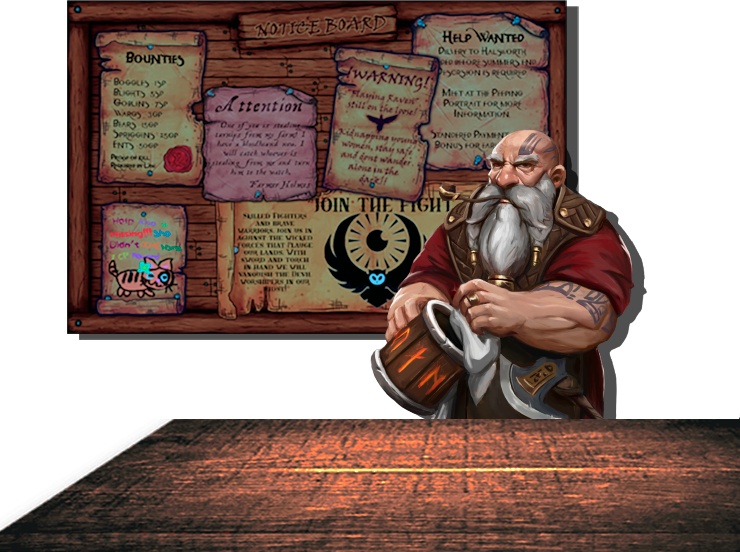
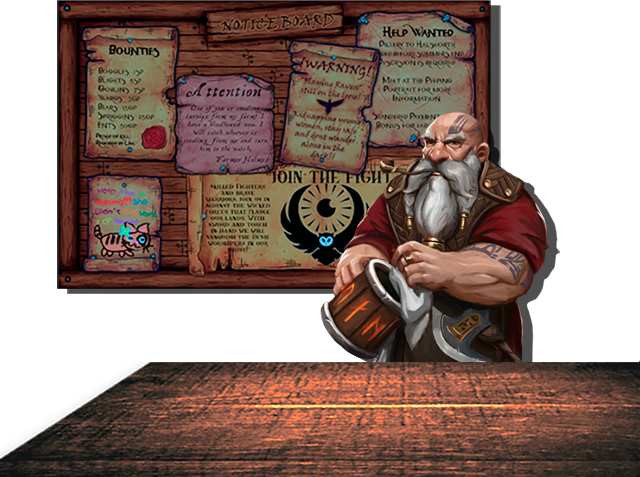
Home update 2

Changed region(s): [[0.1875, 0.4696, 0.2188, 0.5283], [0.2188, 0.4403, 0.25, 0.4696]]

diff --git a/src/app/pages/home-page/home-page.component.html b/src/app/pages/home-page/home-page.component.html
@@ -1,11 +1,11 @@
-<div class="container-fluid" >
-    <div id="header" class="row">
+<div class="contenedor" >
+    <!-- <div id="header" class="row">
         <div class="cartel">
           <img class="img-fluid" src="../../../assets/images/cartel.png">
         </div>
-    </div>
-    <div id="body" class="row">
-        <div class="col-2">
+    </div> -->
+    <div class="cuerpo">
+        <div  class="left">
             <div class="letrero"  [style.backgroundImage]="'url('+ letrero +')' ">
                 <p>Campañas activas</p>
             </div>
@@ -21,15 +21,19 @@
                         <tbody>
                           <tr>
                             <td>Mark</td>
-                            <td>Otto</td>
+                            <td>Campaña 1</td>
                           </tr>
                           <tr>
                             <td>Jacob</td>
-                            <td>Thornton</td>
+                            <td>Campaña 2</td>
                           </tr>
                           <tr>
                             <td>Larry the Bird</td>
-                            <td>@twitter</td>
+                            <td>Campaña 3</td>
+                          </tr>
+                          <tr>
+                            <td>Perry</td>
+                            <td>Campaña 4</td>
                           </tr>
                         </tbody>
                       </table>
@@ -37,7 +41,7 @@
                 
             </div>
         </div>
-        <div id="right" class="col-2" >
+        <div  class="right" >
           <div>
             <img class="img-fluid" src="../../../assets/images/barman.png" alt="">
           </div>

diff --git a/src/app/pages/home-page/home-page.component.css b/src/app/pages/home-page/home-page.component.css
@@ -1,7 +1,8 @@
-.container-fluid{
+.contenedor{
     background: url(../../../assets/images/wall.png) repeat center center;
-    background-color: rgba(146, 67, 3, 0.616);
     height: 82vh;
+    width: 100vw;
+    overflow: hidden;
 }
 #header{
     display: flex;
@@ -27,12 +28,14 @@
     margin-top: 1rem;
     margin-bottom: 0.3rem;
 }
+.left{
 
+}
 .letrero{
     border:3px solid black; 
     position: absolute; 
-    left: 15%; 
-    margin-top: -1rem; 
+    left: 20%; 
+    margin-top: -2rem; 
     width: 13rem; 
     height: 3rem; 
     border-radius: 5px;
@@ -42,7 +45,7 @@
     color: rgb(253, 251, 251);
     text-shadow: 2px 2px rgba(255, 255, 255, 0.452);
     font-family: 'dwarf';
-    font-size: 1.9rem;
+    font-size: 1.5rem;
     text-align: center;
 }
 
@@ -51,8 +54,7 @@
     border-radius: 5px; 
     border: 8px solid rgb(133, 66, 11); 
     height: auto; 
-    margin-top: 1rem;
-    margin-left: 3rem;
+    margin-left: 8rem;
     width: 40vw;
     font-family: 'dwarf';
     font-size: 1.5rem;
@@ -81,22 +83,29 @@
     border-radius: 20px 0 20px 0;
 }
 
-#right{
+.right{
     display: flex;
     justify-content: right;
     flex-wrap: wrap;
     align-content: flex-end;
-    width: 50%;
+    width: 40vw;
     margin: 0;
     padding: 0;
-    height: 57.3vh;
+    height: 58.2vh;
+    
 }
 
-#right img{
+.right img{
     margin: 0;
+    max-width: 100%;
+    height: auto;
 }
 
-#body{
+.cuerpo{
     display: flex;
     justify-content: space-between;
+    align-content: flex-end;
+    flex-direction: row;
+    flex-wrap: wrap;
+    height: 100%;
 }
